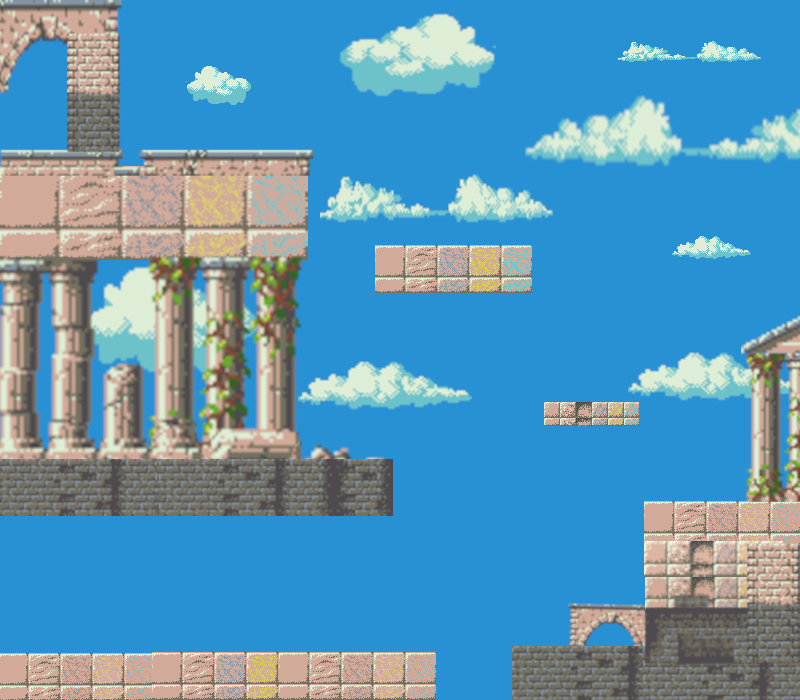
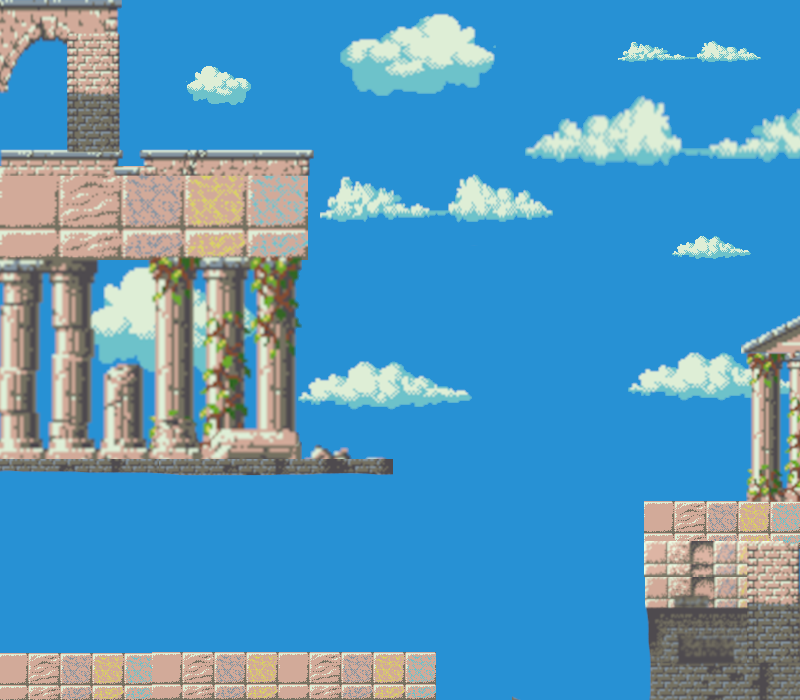
refined the turning, finishing the transitions between all levels, goblins + sharruth die as expected

diff --git a/Elora.java b/Elora.java
@@ -16,6 +16,8 @@ public class Elora extends Actor
     private int gravity = 1;
     private boolean spaceKeyDown;
     private int damage= 0;
+    private int triggerX1= 36;
+    private int triggerY1= 96;
     
     GreenfootImage eloraAfk;
     GreenfootImage eloraJump;
@@ -40,7 +42,11 @@ public class Elora extends Actor
             }
         }
         
+        levelUp1();
         
+        if(getWorld() instanceof Level2) {
+           levelUp2(); 
+        }
         
         eloraAfk = new GreenfootImage("EloraPngAI.png");
         eloraJump = new GreenfootImage("EloraJumpPngAI.png");
@@ -65,6 +71,7 @@ public class Elora extends Actor
         } else {
             setImage(eloraAfk);
         }
+        
     }
     
     public void falling()
@@ -77,19 +84,26 @@ public class Elora extends Actor
     
     public void checkGround()
     {
-       if(isTouching(Ground.class) && vSpeed >0) {
+       if(isTouching(Ground.class) && vSpeed > 0) {
            setLocation(getX(), getY() - 1);
            vSpeed = 0;
        }
-       else {
-           falling();
+        else {    
+            falling();
        }
     }
     
     public void turning() {
-        if(isAtEdge()) {
-            turn(180);
-            getImage().mirrorVertically();
+        boolean facingRight = true;
+        int margin = 5;
+        World world = getWorld();
+         if (getX() <= margin && facingRight) {
+            getImage().mirrorHorizontally();
+            facingRight = false;
+        } 
+        else if (getX() >= world.getWidth() - margin && !facingRight) {
+            getImage().mirrorHorizontally();
+            facingRight = true;
         }
     }
     
@@ -131,6 +145,44 @@ public class Elora extends Actor
         return this.stability;
     }
     
+    public boolean isAtDoor() 
+    {
+        Actor door = getOneIntersectingObject(Door.class);
+        if(door != null){
+            return true;
+        }
+        else {
+            return false;
+        }
+    }
+    
+    public boolean levelDone() 
+    {
+        if (getWorld().getObjects(Goblin.class).isEmpty()) {
+            return true; 
+        } else {
+            return false;
+        }
+    }
+    
+    public void levelUp1() {
+        if(isAtDoor() == true && levelDone() == true) {
+            getWorld().stopped();
+            World level2 =  new Level2();
+            level2.started();
+            Greenfoot.setWorld(level2);
+        }
+    }
+    
+    public void levelUp2()
+    {
+        if(isAtDoor() == true && levelDone() == true) {
+            getWorld().stopped();
+            World level3 =  new Level3();
+            level3.started();
+            Greenfoot.setWorld(level3);
+        }
+    }
     
     public void transitionToGameOver()
     {
@@ -139,7 +191,6 @@ public class Elora extends Actor
         gameOver.started();
         Greenfoot.setWorld(gameOver);
     }
-    
     
 }
 

diff --git a/Level1.java b/Level1.java
@@ -11,6 +11,7 @@ public class Level1 extends World
 {
     GreenfootSound gfs_Level1;
     Door door = new Door();
+    
     /**
      * Constructor for objects of class Level1.
      * 
@@ -21,8 +22,6 @@ public class Level1 extends World
         door.setLocation(36,96);
         gfs_Level1= new GreenfootSound("level1.wav");
         prepare();
-        levelDone();
-        levelUp();
     }
     
     /**
@@ -46,8 +45,6 @@ public class Level1 extends World
         goblin4.setLocation(298,413);
         goblin2.setLocation(718,455);
         goblin.setLocation(310,604);
-        CastlePlatform castlePlatform = new CastlePlatform();
-        addObject(castlePlatform,452,267);
         CastlePlatform castlePlatform2 = new CastlePlatform();
         addObject(castlePlatform2,615,423);
         CastlePlatform castlePlatform3 = new CastlePlatform();
@@ -69,16 +66,24 @@ public class Level1 extends World
         addObject(castlePlatform10,236,480);
         CastlePlatform castlePlatform11 = new CastlePlatform();
         addObject(castlePlatform11,317,480);
-        CastlePlatform castlePlatform12 = new CastlePlatform();
-        addObject(castlePlatform12,591,670);
-        CastlePlatform castlePlatform13 = new CastlePlatform();
-        addObject(castlePlatform13,648,620);
-        castlePlatform13.setLocation(631,624);
         HealthBar healthBar = new HealthBar();
         addObject(healthBar,636,90);
         Door door = new Door();
         addObject(door,36,96);
         door.setLocation(36,96);
+        castlePlatform4.setLocation(62,671);
+        castlePlatform5.setLocation(192,668);
+        castlePlatform7.setLocation(64,165);
+        castlePlatform8.setLocation(222,164);
+        goblin2.setLocation(717,450);
+        castlePlatform3.setLocation(722,513);
+        goblin3.setLocation(218,101);
+        castlePlatform9.setLocation(44,463);
+        castlePlatform11.setLocation(331,466);
+        goblin4.setLocation(245,404);
+        castlePlatform6.setLocation(348,669);
+        castlePlatform10.setLocation(188,464);
+        castlePlatform2.setLocation(557,259);
     }
     
      public void started()
@@ -89,24 +94,6 @@ public class Level1 extends World
     public void stopped()
     {
         gfs_Level1.stop();
-    }
-    
-    public boolean levelDone(){
-        if (getObjects(Goblin.class).isEmpty()) {
-            return true; 
-        } else {
-            return false;
-        }
-    }
-    
-    public void levelUp()
-    {
-        if(levelDone() && door.eloraAtDoor()) {
-            stopped();
-            World level2 =  new Level2();
-            level2.started();
-            Greenfoot.setWorld(level2);
-        }
     }
 }
 

diff --git a/Level3.java b/Level3.java
@@ -16,9 +16,7 @@ public class Level3 extends World
      */
     public Level3()
     {    
-        super(900, 700, 1); 
-        getBackground().setColor(new Color(70, 0, 255));
-        getBackground().fill();
+        super(800, 500, 1); 
         gameMusic = new GreenfootSound("boss_battle_#2.WAV"); 
         prepare();
     }
@@ -29,23 +27,32 @@ public class Level3 extends World
      */
     private void prepare()
     {
-
-        Platform platform = new Platform();
-        addObject(platform,141,674);
-        Platform platform2 = new Platform();
-        addObject(platform2,427,674);
-        Platform platform3 = new Platform();
-        addObject(platform3,716,674);
-
         Sharruth1 sharruth1 = new Sharruth1();
         addObject(sharruth1,640,284);
-        sharruth1.setLocation(585,379);
         Elora elora = new Elora();
         addObject(elora,75,594);
         Rhiannon rhiannon = new Rhiannon();
         addObject(rhiannon,768,597);
         HealthBar healthBar = new HealthBar();
         addObject(healthBar,51,40);
+        RockPlatform rockPlatform = new RockPlatform();
+        addObject(rockPlatform,324,478);
+        rockPlatform.setLocation(41,459);
+        RockPlatform rockPlatform2 = new RockPlatform();
+        addObject(rockPlatform2,376,475);
+        RockPlatform rockPlatform3 = new RockPlatform();
+        addObject(rockPlatform3,526,472);
+        RockPlatform rockPlatform4 = new RockPlatform();
+        addObject(rockPlatform4,604,472);
+        RockPlatform rockPlatform5 = new RockPlatform();
+        addObject(rockPlatform5,743,474);
+        rhiannon.setLocation(764,396);
+        rockPlatform.setLocation(104,472);
+        elora.setLocation(65,408);
+        rockPlatform4.setLocation(592,475);
+        rockPlatform3.setLocation(257,473);
+        rockPlatform2.setLocation(423,479);
+        sharruth1.setLocation(483,252);
     }
     
     public void started(){

diff --git a/Goblin.java b/Goblin.java
@@ -35,6 +35,7 @@ public class Goblin extends Actor
         moveGoblin();
         animateGoblin();
         takeHit();
+        isDead();
     }
 
     private void moveGoblin()
@@ -49,7 +50,7 @@ public class Goblin extends Actor
             setLocation(getX() - stepSize, getY());
             stepsTaken--;
             if (stepsTaken <= 0) {
-                movingRight = true; 
+                movingRight = true;
             }
         }
     }
@@ -77,12 +78,17 @@ public class Goblin extends Actor
         if(isTouching(Arrow.class)) {
             removeTouching(Arrow.class);
             damage = damage + 1;
-            if(damage >= 3) {
-                getWorld().removeObject(this);
-                if(Greenfoot.getRandomNumber(100) < 25) {
-                    
-                }
             }
+    }
+    
+    public boolean isDead()
+    {
+        if(damage >=3) {
+            getWorld().removeObject(this);
+            return true;
+        }
+        else {
+            return false;
         }
     }
 

diff --git a/Door.java b/Door.java
@@ -20,17 +20,7 @@ public class Door extends Actor
      */
     public void act()
     {
-        eloraAtDoor();
+        
     }
     
-    public boolean eloraAtDoor()
-    {
-        Actor elora = getOneIntersectingObject(Elora.class);
-        if(elora != null){
-            return true;
-        }
-        else {
-            return false;
-        }
-    }
 }

diff --git a/Sharruth1.java b/Sharruth1.java
@@ -24,11 +24,11 @@ public class Sharruth1 extends Actor
             shootTimer = 0;
         }
         
-        if (isGameLost()) {
+        if (isGameLost() == true) {
             transitionToGameOver();        
         }
         
-        if (isSharruthDown()) {
+        if (isSharruthDown() == true) {
             transitionToWin();
         } 
         
